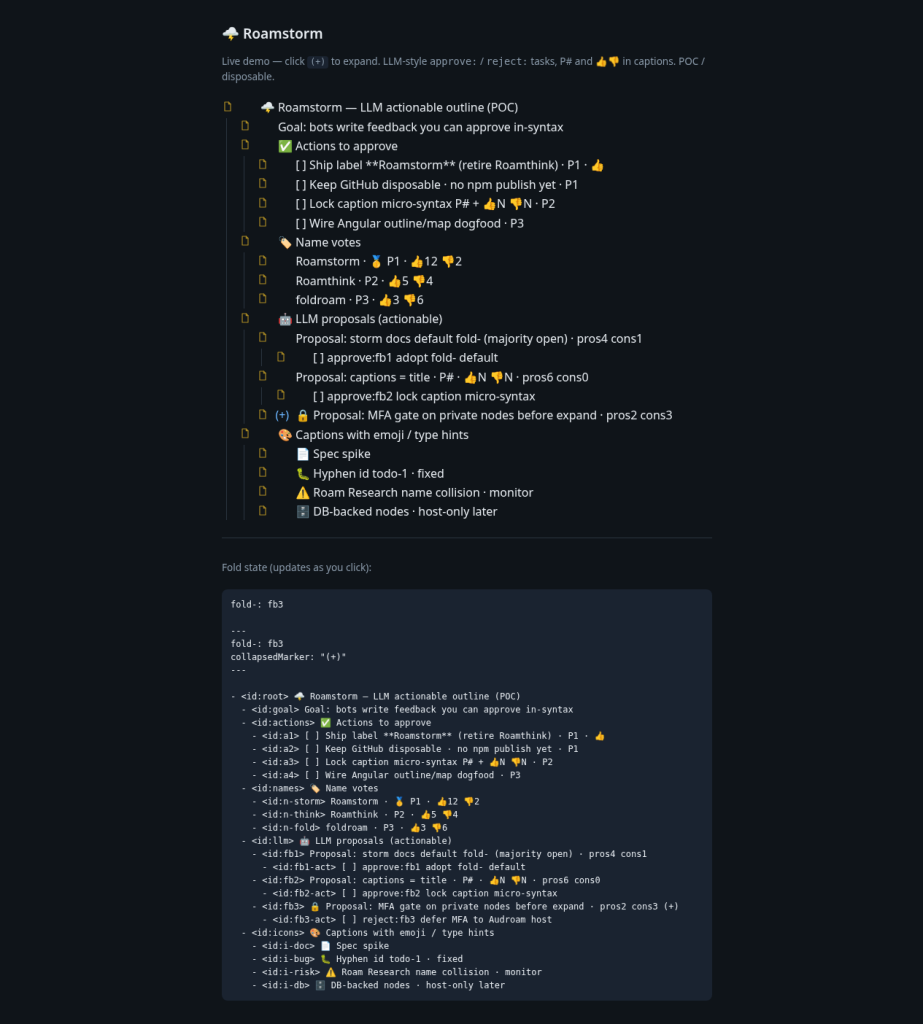
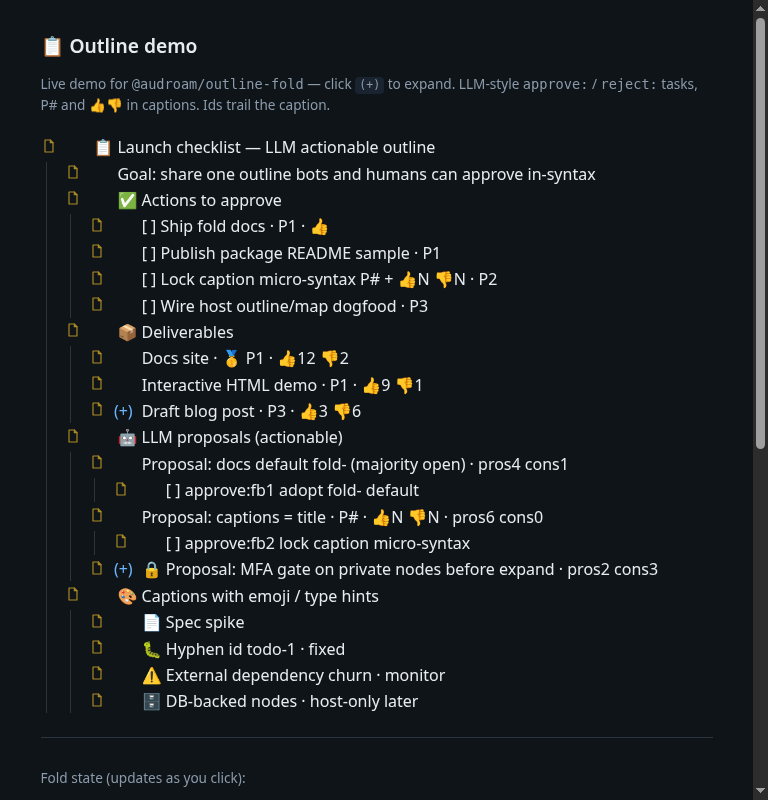
docs: refresh screenshots at tablet portrait width

diff --git a/README.md b/README.md
@@ -24,11 +24,11 @@ Source outline for the demo: [examples/outline-demo.md](./examples/outline-demo.
 
 ### Screenshots
 
-![Outline live HTML + fold state](docs/screenshots/outline-html.png)
+![Outline live HTML + fold state (tablet portrait)](docs/screenshots/outline-html.png)
 
-![Outline tree (expanded)](docs/screenshots/outline-tree.png)
+![Outline tree (tablet portrait)](docs/screenshots/outline-tree.png)
 
-![Canvas 2D map](docs/screenshots/canvas-2d.png)
+![Canvas 2D map (tablet portrait)](docs/screenshots/canvas-2d.png)
 
 ## Sample (caption-first ids)
 
